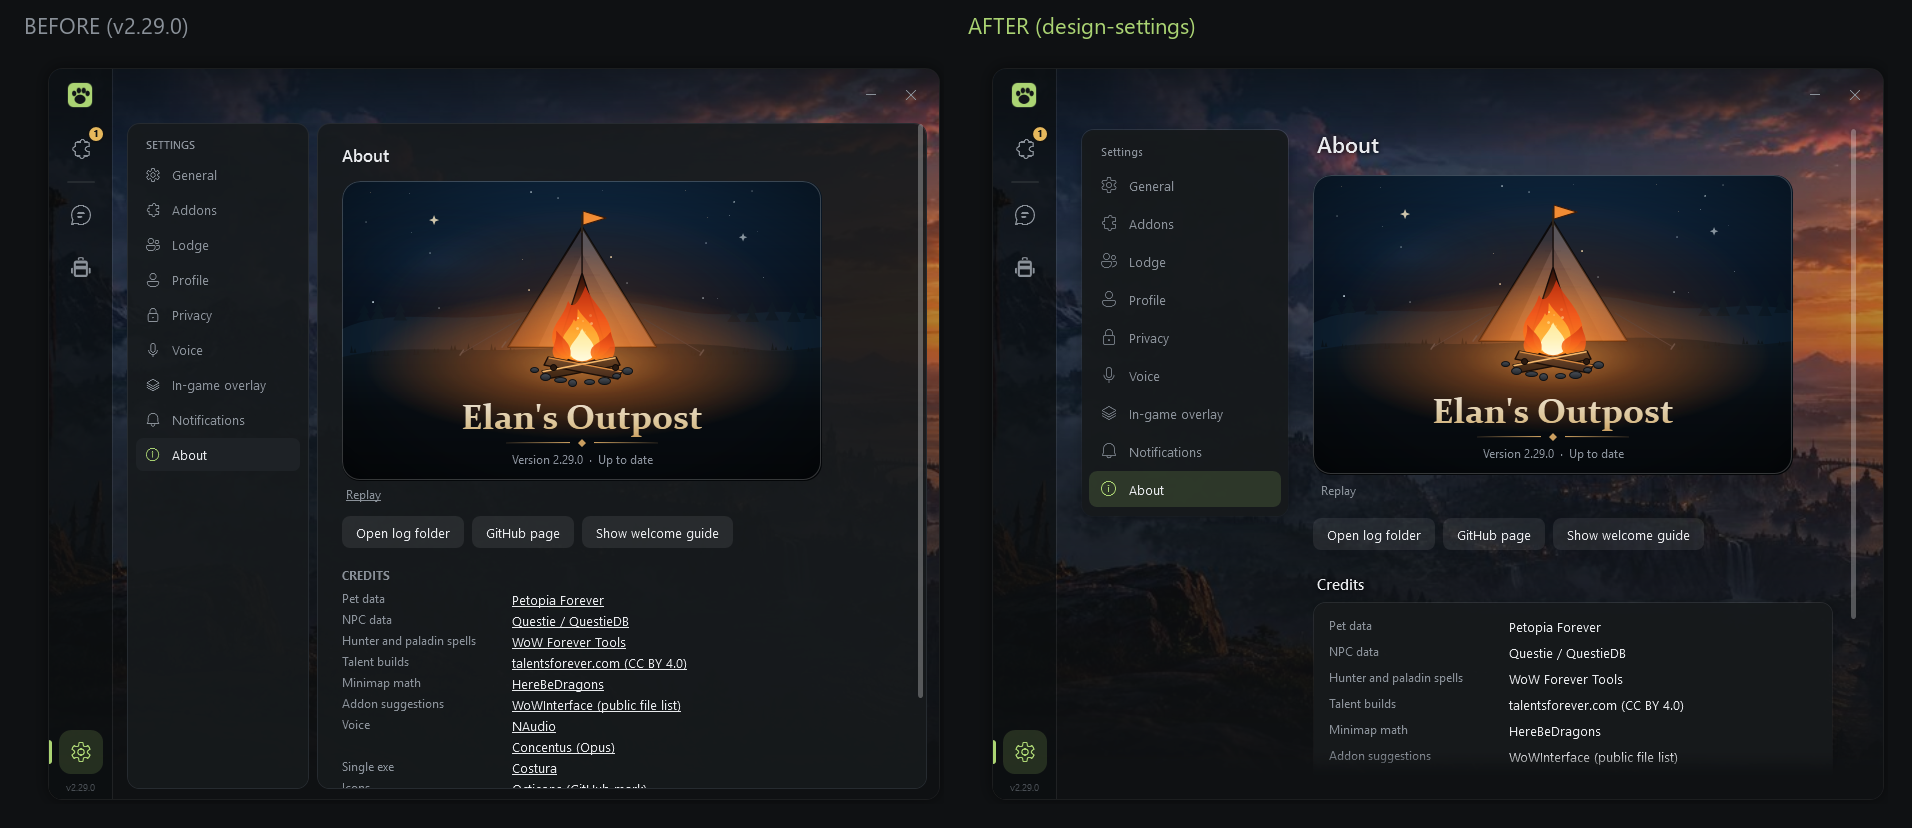
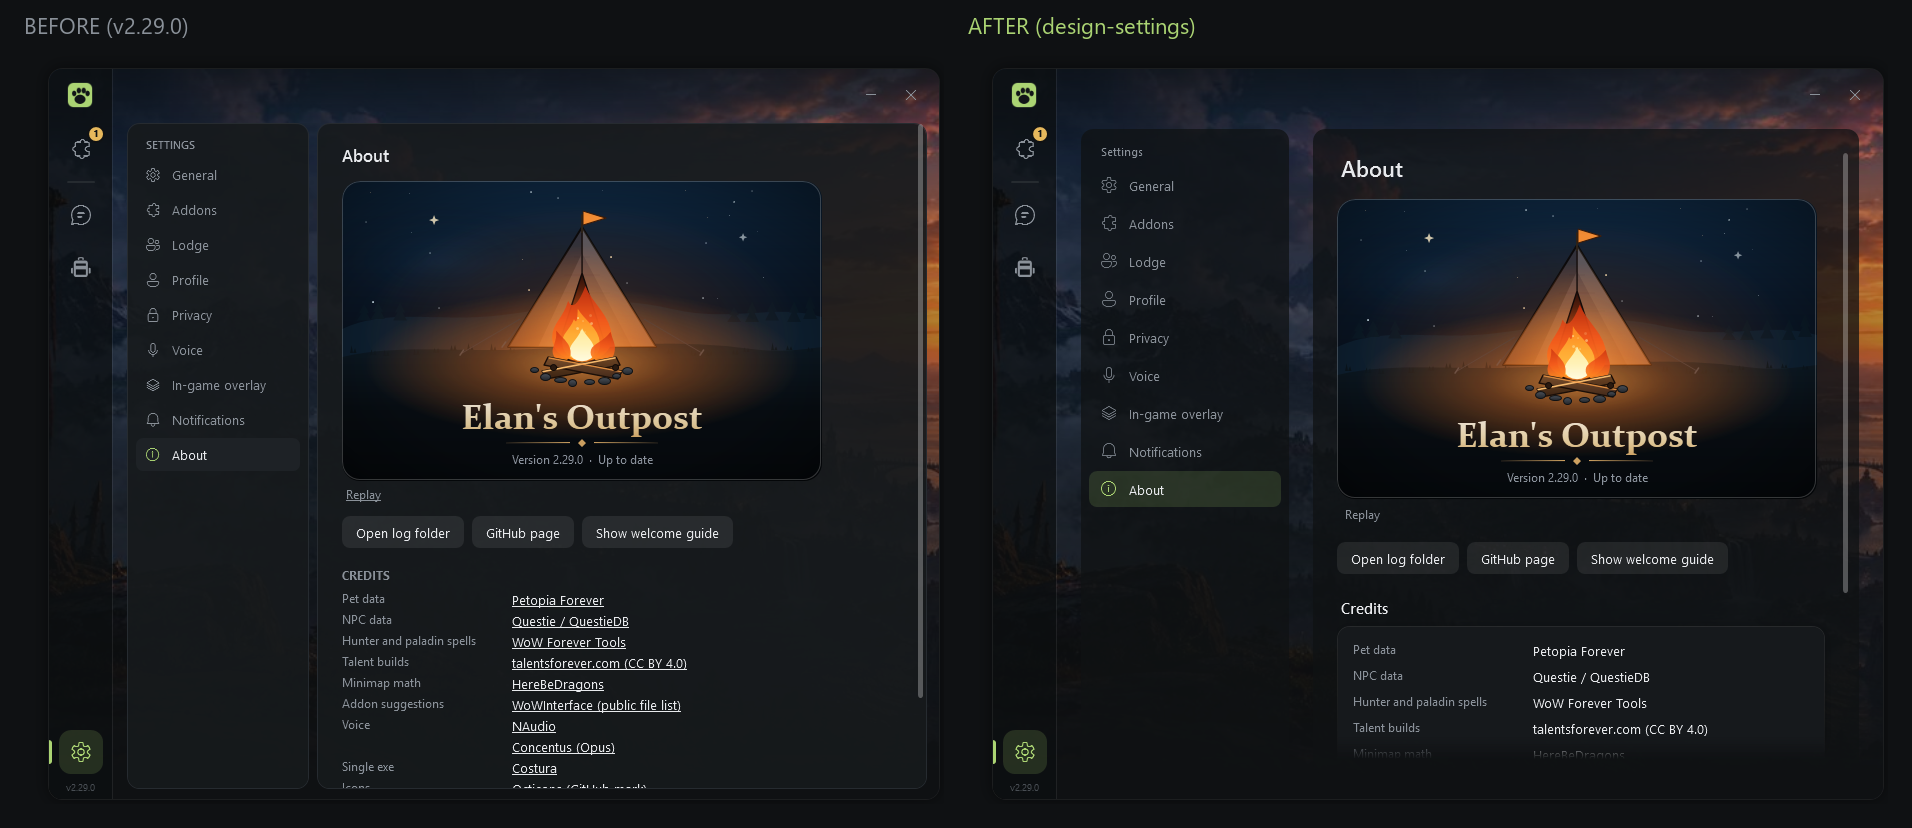
Settings + Inventory sit on a page panel (Brush.Scrim); nav runs full height; text shadows removed

diff --git a/src/SettingsPage.xaml b/src/SettingsPage.xaml
@@ -49,18 +49,15 @@
     </Style>
 
     <!-- section header + optional note, helper text under a control -->
-    <!-- these sit straight on the background art, so they carry a soft shadow for legibility -->
-    <DropShadowEffect x:Key="OnArt" x:Shared="False" BlurRadius="8" ShadowDepth="0" Opacity="0.9" Color="Black" />
-    <Style x:Key="Head" TargetType="TextBlock" BasedOn="{StaticResource Text.Section}"><Setter Property="Margin" Value="4,0,0,8" /><Setter Property="Effect" Value="{StaticResource OnArt}" /></Style>
-    <Style x:Key="HeadTight" TargetType="TextBlock" BasedOn="{StaticResource Text.Section}"><Setter Property="Margin" Value="4,0,0,2" /><Setter Property="Effect" Value="{StaticResource OnArt}" /></Style>
+    <Style x:Key="Head" TargetType="TextBlock" BasedOn="{StaticResource Text.Section}"><Setter Property="Margin" Value="4,0,0,8" /></Style>
+    <Style x:Key="HeadTight" TargetType="TextBlock" BasedOn="{StaticResource Text.Section}"><Setter Property="Margin" Value="4,0,0,2" /></Style>
     <Style x:Key="Note" TargetType="TextBlock" BasedOn="{StaticResource Text.Secondary}">
       <Setter Property="TextWrapping" Value="Wrap" />
       <Setter Property="MaxWidth" Value="560" />
       <Setter Property="HorizontalAlignment" Value="Left" />
       <Setter Property="Margin" Value="4,0,0,8" />
-      <Setter Property="Effect" Value="{StaticResource OnArt}" />
-    </Style>
-    <Style x:Key="PageTitle" TargetType="TextBlock" BasedOn="{StaticResource Text.Title}"><Setter Property="Margin" Value="4,0,0,16" /><Setter Property="Effect" Value="{StaticResource OnArt}" /></Style>
+      </Style>
+    <Style x:Key="PageTitle" TargetType="TextBlock" BasedOn="{StaticResource Text.Title}"><Setter Property="Margin" Value="4,0,0,16" /></Style>
 
     <!-- a card with rows: hairlines between rows, none above the first (it is clipped) -->
     <Style x:Key="Card.Rows" TargetType="ContentControl">
@@ -70,7 +67,7 @@
         <Setter.Value>
           <ControlTemplate TargetType="ContentControl">
             <Grid>
-              <Border Background="{StaticResource Brush.Card}" BorderBrush="{StaticResource Brush.Edge}" BorderThickness="1" CornerRadius="{StaticResource Radius.Card}" Effect="{StaticResource Elevation.1}" />
+              <Border Background="{StaticResource Brush.Surface1}" BorderBrush="{StaticResource Brush.Edge}" BorderThickness="1" CornerRadius="{StaticResource Radius.Card}" Effect="{StaticResource Elevation.1}" />
               <Border Padding="16,0" ClipToBounds="True"><ContentPresenter Margin="0,-1,0,0" /></Border>
             </Grid>
           </ControlTemplate>
@@ -93,7 +90,7 @@
     </Grid.ColumnDefinitions>
 
     <!-- sections -->
-    <ContentControl Style="{StaticResource Card.Group}" Margin="0" VerticalAlignment="Top">
+    <Border Background="{StaticResource Brush.Scrim}" CornerRadius="{StaticResource Radius.Card}">
       <StackPanel Margin="8">
         <TextBlock Text="Settings" Style="{StaticResource Text.Caption}" Margin="12,8,0,8" />
         <RadioButton x:Name="NavGeneral" Style="{StaticResource Nav}" Tag="&#xE713;" Content="General" Checked="Nav_Checked" IsChecked="True" />
@@ -107,9 +104,11 @@
         <RadioButton x:Name="NavGm" Style="{StaticResource Nav}" Tag="&#xEA18;" Content="Guild Master" Checked="Nav_Checked" Visibility="Collapsed" />
         <RadioButton x:Name="NavAbout" Style="{StaticResource Nav}" Tag="&#xE946;" Content="About" Checked="Nav_Checked" />
       </StackPanel>
-    </ContentControl>
+    </Border>
 
-    <Grid Grid.Column="2">
+    <!-- the page panel: pages sit on a scrim, never directly on the hero art -->
+    <Border Grid.Column="2" Background="{StaticResource Brush.Scrim}" CornerRadius="{StaticResource Radius.Card}" Padding="24,24,8,16">
+    <Grid>
       <Grid.RowDefinitions><RowDefinition Height="*" /><RowDefinition Height="Auto" /></Grid.RowDefinitions>
       <!-- Profile: sticky footer with the buttons and the inline status (DataContext = ProfileEditVM). An overlay: Surface3 + hairline + elevation 2. -->
       <Border x:Name="ProfileBar" Grid.Row="1" Visibility="Collapsed" Background="{StaticResource Brush.Surface3}" BorderBrush="{StaticResource Brush.Divider}" BorderThickness="1"
@@ -123,7 +122,7 @@
         </DockPanel>
       </Border>
       <ScrollViewer x:Name="Scroll" VerticalScrollBarVisibility="Auto" app:Motion.EdgeFade="True">
-        <Grid Margin="0,0,16,24" MaxWidth="680" HorizontalAlignment="Stretch">
+        <Grid Margin="0,0,16,8" MaxWidth="680" HorizontalAlignment="Stretch">
 
           <!-- ========== General ========== -->
           <StackPanel x:Name="SecGeneral">
@@ -188,7 +187,7 @@
               <Button Style="{StaticResource Button.M}" Content="Check for updates now" Click="CheckNow_Click" />
               <Button Style="{StaticResource Button.M}" Content="Open backups folder" Margin="8,0,0,0" Click="Backups_Click" />
             </StackPanel>
-            <TextBlock x:Name="CheckText" Effect="{StaticResource OnArt}" Style="{StaticResource Text.Secondary}" Margin="4,8,0,0" TextWrapping="Wrap" />
+            <TextBlock x:Name="CheckText" Style="{StaticResource Text.Secondary}" Margin="4,8,0,0" TextWrapping="Wrap" />
           </StackPanel>
 
           <!-- ========== Lodge ========== -->
@@ -251,14 +250,14 @@
             <!-- the form (DataContext = ProfileEditVM) -->
             <StackPanel x:Name="ProfileForm">
               <TextBlock Text="Your display name, avatar, a few words about you and your characters. Only what you choose here is shared." Style="{StaticResource Note}" Margin="4,0,0,16" />
-              <TextBlock Text="You joined as a guest: your profile is kept only until you leave the lodge." Effect="{StaticResource OnArt}" Visibility="{Binding GuestVisibility}" Style="{StaticResource Text.Secondary}"
+              <TextBlock Text="You joined as a guest: your profile is kept only until you leave the lodge." Visibility="{Binding GuestVisibility}" Style="{StaticResource Text.Secondary}"
                          Foreground="{StaticResource Brush.Warn}" TextWrapping="Wrap" Margin="4,0,0,16" />
 
               <!-- live preview -->
               <ContentControl Style="{StaticResource Card.Group}" HorizontalAlignment="Center" Margin="0,0,0,8">
                 <ContentControl Content="{Binding Card}" ContentTemplate="{StaticResource ProfileCard}" />
               </ContentControl>
-              <TextBlock Text="{Binding Hint}" Style="{StaticResource Text.Caption}" Effect="{StaticResource OnArt}" HorizontalAlignment="Center" TextWrapping="Wrap" TextAlignment="Center" Margin="0,0,0,24" />
+              <TextBlock Text="{Binding Hint}" Style="{StaticResource Text.Caption}" HorizontalAlignment="Center" TextWrapping="Wrap" TextAlignment="Center" Margin="0,0,0,24" />
 
               <StackPanel Visibility="{Binding DisplayVisibility}">
                 <TextBlock Text="Display name" Style="{StaticResource Head}" />
@@ -383,7 +382,7 @@
           <StackPanel x:Name="SecPrivacy" Visibility="Collapsed">
             <TextBlock Text="Privacy" Style="{StaticResource PageTitle}" />
             <TextBlock Text="What the Outpost shares, with whom, and where you can switch it off. These are the same switches as on the other pages - change one here or there." Style="{StaticResource Note}" Margin="4,0,0,4" />
-            <TextBlock x:Name="PrivacyLodgeLine" Effect="{StaticResource OnArt}" Style="{StaticResource Text.Secondary}" Margin="4,0,0,16" TextWrapping="Wrap" />
+            <TextBlock x:Name="PrivacyLodgeLine" Style="{StaticResource Text.Secondary}" Margin="4,0,0,16" TextWrapping="Wrap" />
             <TextBlock Text="Shared with your lodge" Style="{StaticResource HeadTight}" />
             <TextBlock Text="Only the people on the Lodge server you joined see this, and only while you are connected." Style="{StaticResource Note}" />
             <ContentControl Style="{StaticResource Card.Rows}"><StackPanel>
@@ -585,7 +584,7 @@
                            Style="{StaticResource Text.Secondary}" TextWrapping="Wrap" Margin="0,8,0,0" />
               </StackPanel>
             </ContentControl>
-            <TextBlock x:Name="GmStatus" Effect="{StaticResource OnArt}" Style="{StaticResource Text.Secondary}" Foreground="{StaticResource Brush.Danger}" TextWrapping="Wrap" Margin="4,0,0,12" />
+            <TextBlock x:Name="GmStatus" Style="{StaticResource Text.Secondary}" Foreground="{StaticResource Brush.Danger}" TextWrapping="Wrap" Margin="4,0,0,12" />
 
             <TextBlock Text="Members" Style="{StaticResource Head}" Margin="4,12,0,8" />
             <ContentControl Style="{StaticResource Card.Rows}">
@@ -682,11 +681,12 @@
                   <TextBlock Text="Splash and artwork" Style="{StaticResource Text.Secondary}" /><TextBlock Grid.Column="1" Style="{StaticResource Text.Body}">Original, made for this project</TextBlock></Grid>
               </StackPanel>
             </ContentControl>
-            <TextBlock Style="{StaticResource Text.Caption}" TextWrapping="Wrap" MaxWidth="480" Effect="{StaticResource OnArt}" HorizontalAlignment="Left" Margin="4,0,0,0"
+            <TextBlock Style="{StaticResource Text.Caption}" TextWrapping="Wrap" MaxWidth="480" HorizontalAlignment="Left" Margin="4,0,0,0"
                        Text="World of Warcraft is a trademark of Blizzard Entertainment. Elan's Outpost is a fan project and not affiliated with Blizzard." />
           </StackPanel>
         </Grid>
       </ScrollViewer>
     </Grid>
+    </Border>
   </Grid>
 </UserControl>

diff --git a/src/Theme/Theme.xaml b/src/Theme/Theme.xaml
@@ -71,6 +71,8 @@
   <SolidColorBrush x:Key="Brush.Surface3" Color="{StaticResource Color.Surface3}" />
   <!-- raised cards float over the header art: almost opaque Surface1 -->
   <SolidColorBrush x:Key="Brush.Card" Color="#F016191C" />
+  <!-- the page panel (Bg at 75 %): pages sit on it, never directly on the hero art; cards on it are Surface1, inputs Surface2 -->
+  <SolidColorBrush x:Key="Brush.Scrim" Color="#BF0F1113" />
 
   <!-- text roles. Primary 14.6:1 / Secondary 5.5:1 on Surface1 (AA for body text). Tertiary is 3.8:1: icons, hints, timestamps only. -->
   <SolidColorBrush x:Key="Brush.Text.Primary" Color="{StaticResource TextColor}" />
@@ -1059,9 +1061,19 @@
 
   <!-- settings group (DESIGN 8): a raised card that does not lift on hover; rows inside are Setting.Row, separated by hairlines. The first row's hairline is
        clipped away by the wrapper pattern:  <ContentControl Style=Card.Group><Border Padding="16,0" ClipToBounds="True"><StackPanel Margin="0,-1,0,0"> rows -->
-  <Style x:Key="Card.Group" TargetType="ContentControl" BasedOn="{StaticResource Card.Raised}">
-    <Setter Property="m:Motion.Track" Value="False" />
+  <Style x:Key="Card.Group" TargetType="ContentControl">
     <Setter Property="Margin" Value="0,0,0,24" />
+    <Setter Property="IsTabStop" Value="False" />
+    <Setter Property="Template">
+      <Setter.Value>
+        <ControlTemplate TargetType="ContentControl">
+          <Grid>
+            <Border Background="{StaticResource Brush.Surface1}" BorderBrush="{StaticResource Brush.Edge}" BorderThickness="1" CornerRadius="{StaticResource Radius.Card}" Effect="{StaticResource Elevation.1}" />
+            <ContentPresenter />
+          </Grid>
+        </ControlTemplate>
+      </Setter.Value>
+    </Setter>
   </Style>
 
   <!-- one settings row (DESIGN 8): Header = label (Body), Tag = helper text (Secondary, optional), Content = the control, right-aligned and centred.

diff --git a/src/InventoryPage.xaml b/src/InventoryPage.xaml
@@ -1,7 +1,9 @@
 <UserControl x:Class="ElansAddonHub.InventoryPage"
              xmlns="http://schemas.microsoft.com/winfx/2006/xaml/presentation"
              xmlns:x="http://schemas.microsoft.com/winfx/2006/xaml">
-  <Grid Margin="16,4,12,12">
+  <!-- page panel (DESIGN 4): the page sits on a scrim, not on the hero art -->
+  <Border Background="{StaticResource Brush.Scrim}" CornerRadius="{StaticResource Radius.Card}" Margin="16,4,12,12" Padding="16,12">
+  <Grid>
     <Grid.RowDefinitions>
       <RowDefinition Height="Auto" />
       <RowDefinition Height="*" />
@@ -139,4 +141,5 @@
       </Grid>
     </Grid>
   </Grid>
+  </Border>
 </UserControl>

diff --git a/DESIGN.md b/DESIGN.md
@@ -41,6 +41,7 @@ Rules: at most ONE semibold element per row. Hierarchy comes from size and colou
 - Accent `Brush.Accent` #ABD473 (+ `.Hover`, `.Pressed`, `.Tint`, `Brush.OnAccent` for text on it): ONLY for the primary action and for selection. Not for plain text, numbers, dividers or decoration.
 - Status, only for status: `Brush.Success` / `Warn` / `Danger` / `Info`, each with a `.Tint` (15 %) fill for chips.
 - WoW class colours: only to identify a class/character.
+- Page panel: `Brush.Scrim` (Bg at 75 %, radius Card). Pages sit on a page panel, never directly on the hero art (Settings nav + content, Inventory); cards on the panel are Surface1, inputs/segments Surface2, so no text shadows are needed.
 - Overlays (white veils, work on any surface): `Brush.Overlay.Hover` 6 %, `Pressed` 10 %, `Chip` 8 %, `Brush.Divider` 7 % hairline, selected = `Brush.Accent.Tint` 16 %.
 - `Line`/outline borders: avoid. Separate with fill, elevation or a `Brush.Divider` hairline.
 
